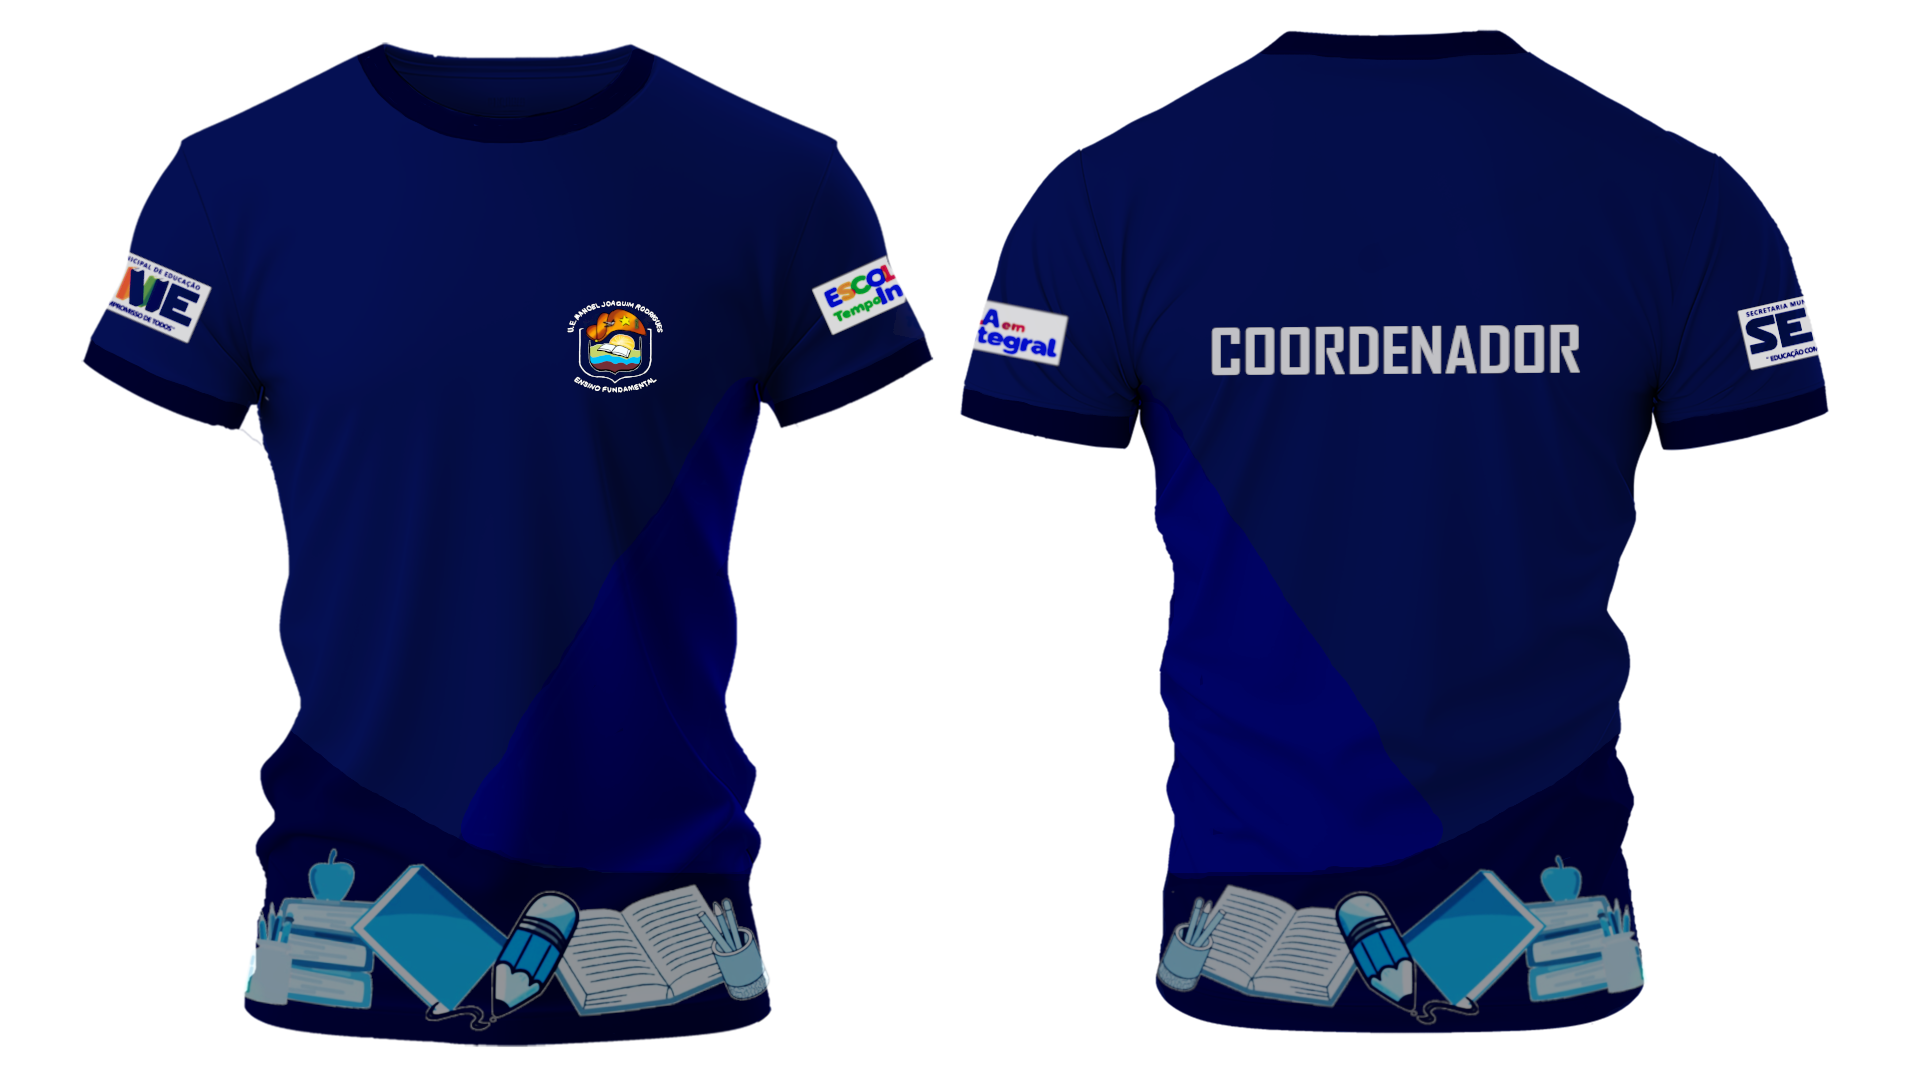
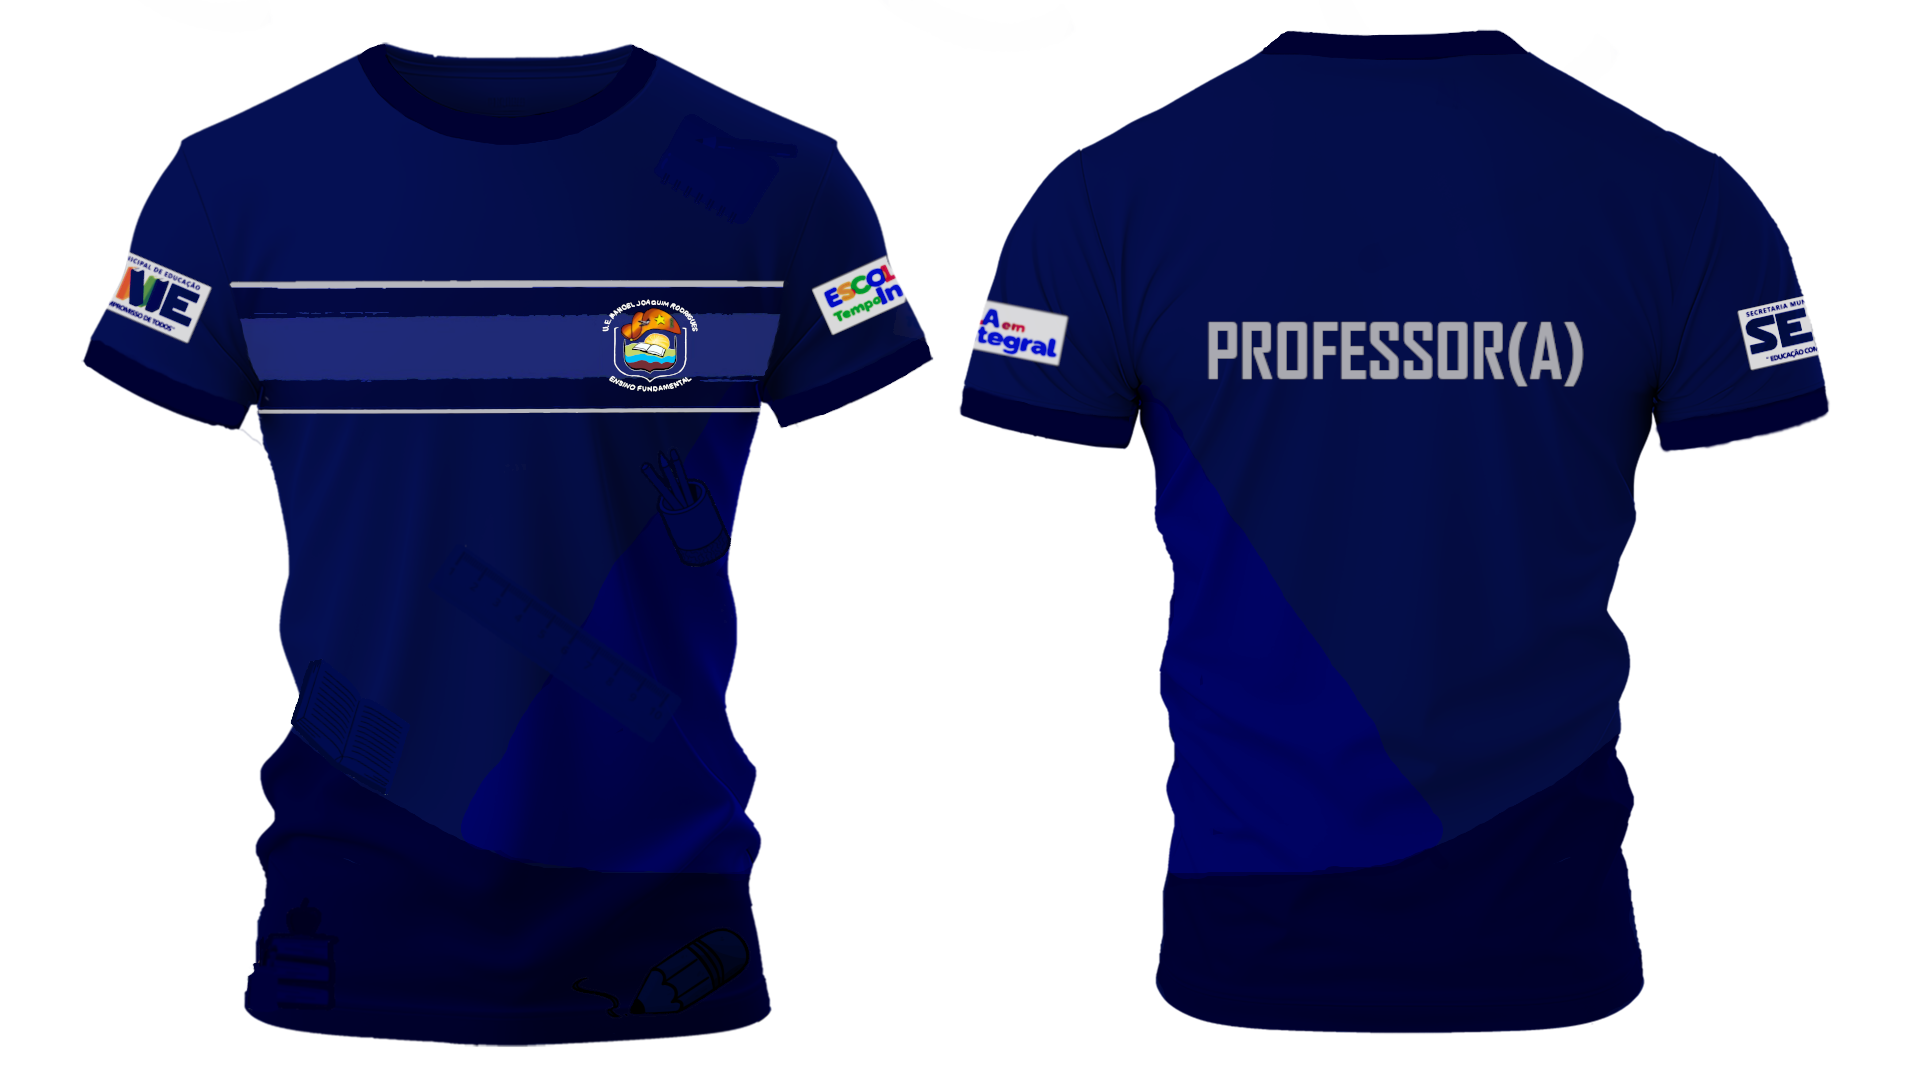
Add files via upload

diff --git a/index.html b/index.html
@@ -26,10 +26,11 @@
             <p>As imagens em questão referem-se a um projeto institucional apresentado ao corpo discente e docente do IFPI Campus Paulistana. Website de uma revendedora de motos meramente ilustrativo. <br><a href="https://gustavo5512.github.io/lojamoto/reajusteloja.html">Clique aqui para acessar o site</a></p>
         </div>
         <div class="portfolio-item">
+        <div class="portfolio-item">
             <img src="imgport\imagem2.png" alt="Projeto 2">
             <p>Modelo 2:</p>
-            <img src="imgport\imagem2.png" alt="Projeto 2">
-            <p>Modelos de uniforme institucional para coordenadores!
+            <img src="imgport\imagem2-mod1.png" alt="Projeto 2">
+            <p>Modelos de uniforme institucional para coordenadores e profesores!
                 <br> <br>
                 Concepção visual desenvolvida conforme solicitações específicas da unidade de ensino.</p>
         </div>

diff --git a/styles.css b/styles.css
@@ -16,6 +16,13 @@ header {
     background: rgba(0, 0, 0, 0.7);
 }
 
+/* Mantém os links do menu alinhados à direita */
+nav {
+    flex-grow: 1;
+    display: flex;
+    justify-content: flex-end;
+}
+
 nav ul {
     list-style: none;
     padding: 0;
@@ -23,11 +30,26 @@ nav ul {
     gap: 20px;
 }
 
-nav a {
-    color: white;
-    text-decoration: none;
-    font-size: 18px;
+/* Responsividade para telas menores */
+@media (max-width: 600px) {
+    header {
+        flex-direction: column;
+        align-items: center;
+        text-align: center;
+    }
+
+    nav {
+        width: 100%;
+        justify-content: center; /* No mobile, centraliza os links */
+        margin-top: 10px;
+    }
+
+    nav ul {
+        flex-direction: row; /* Mantém os links na horizontal */
+        gap: 15px; /* Espaço entre os links */
+    }
 }
+
 
 #portfolio {
     display: flex;
